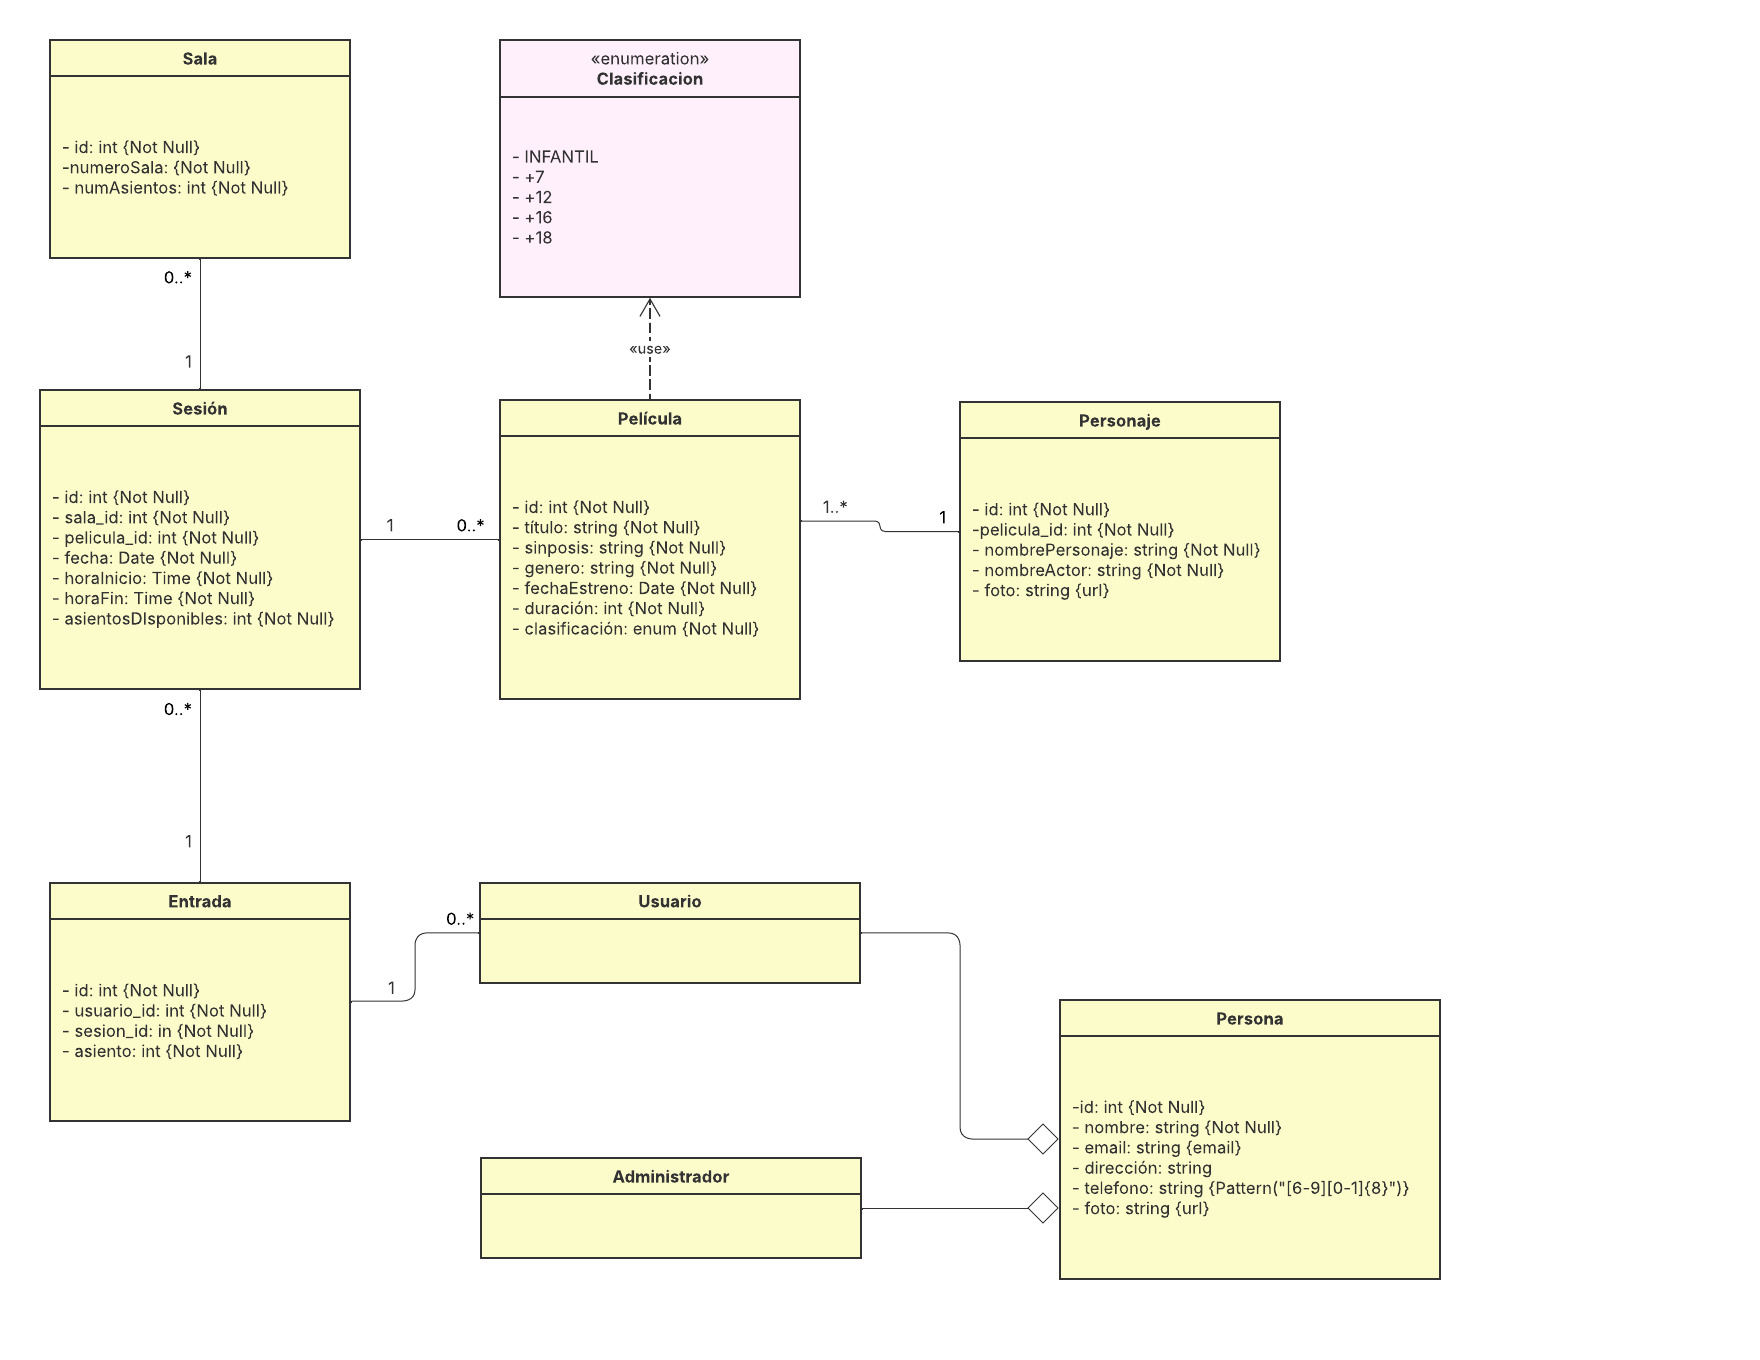
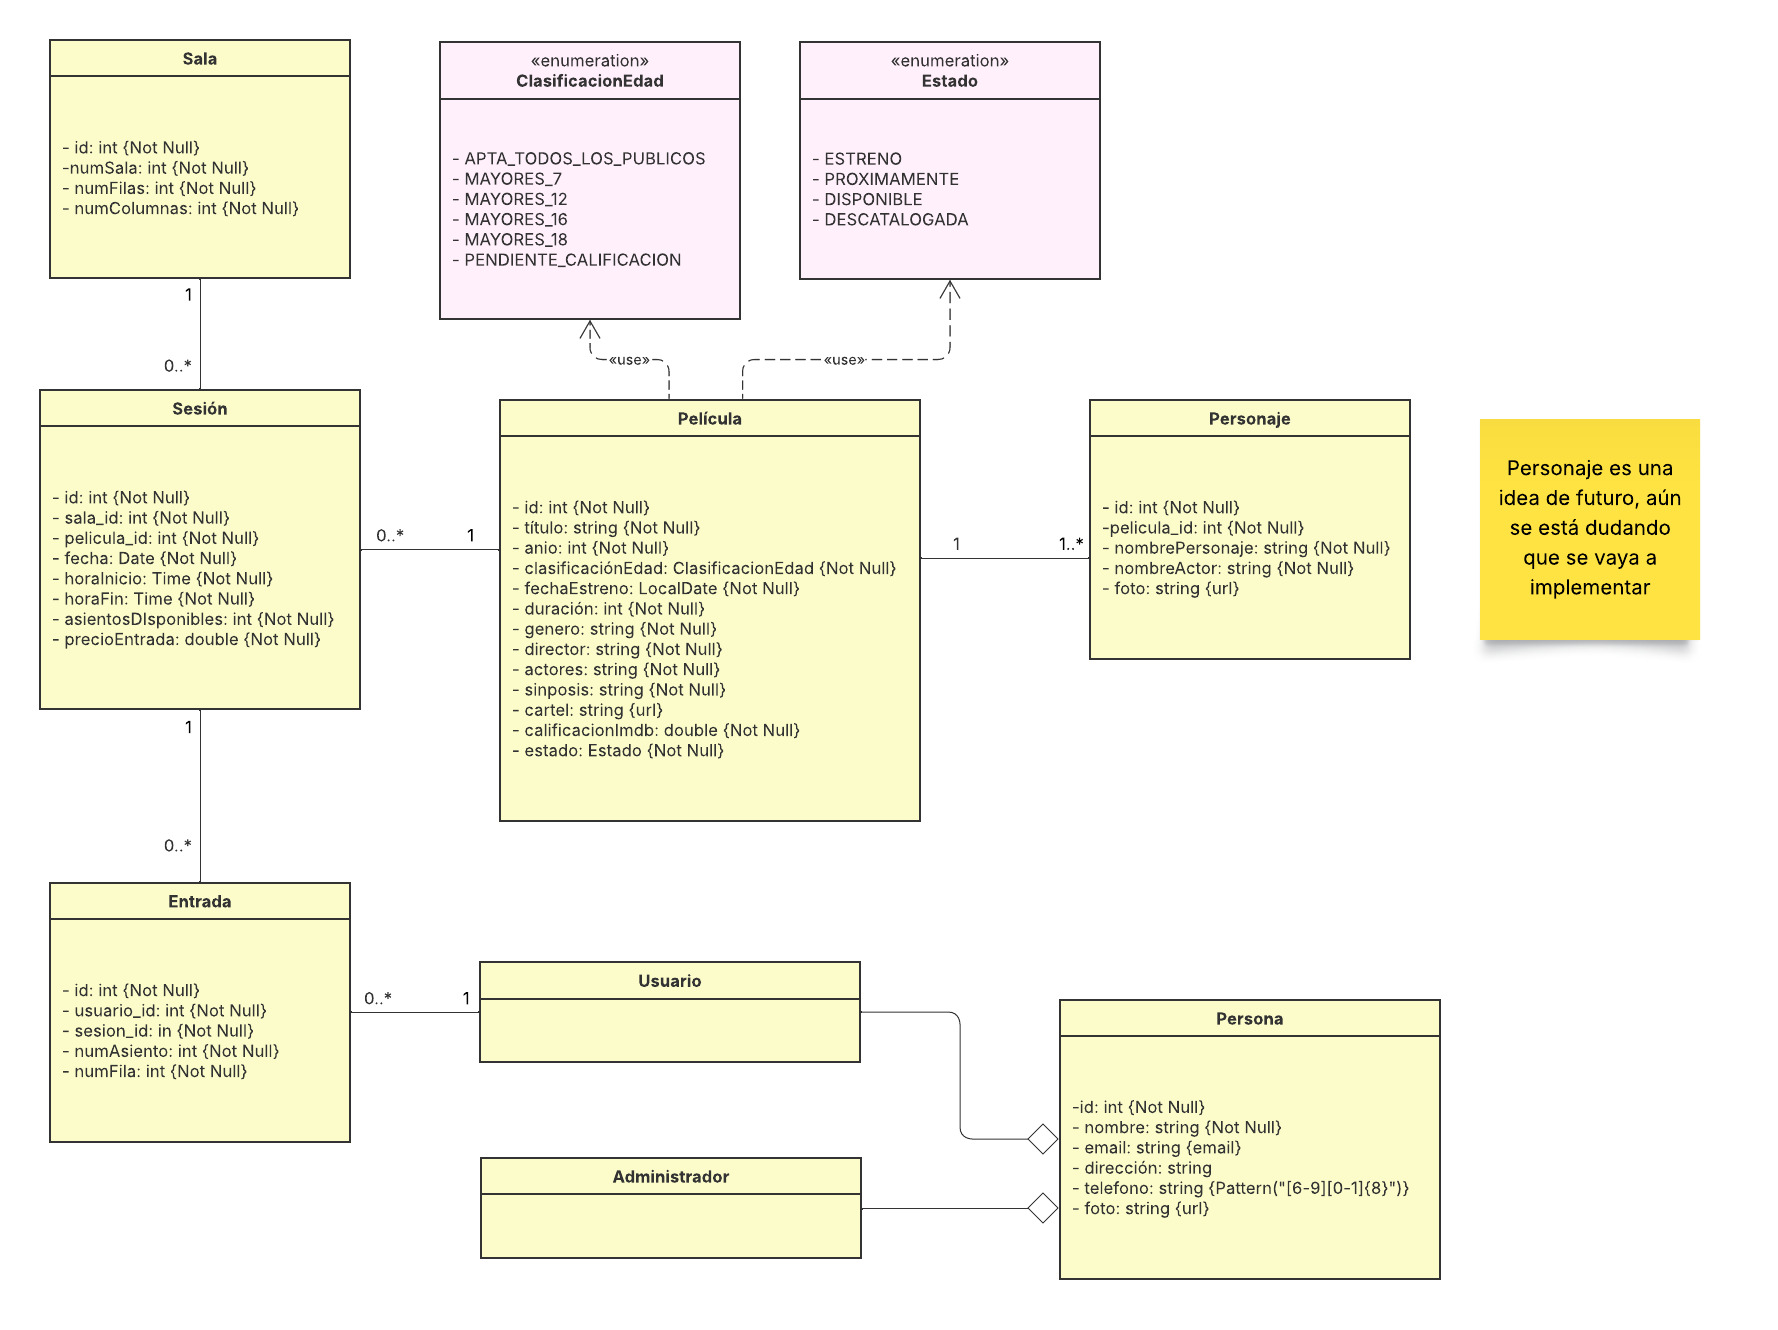
Docs: Rectificación del UML de la BD

diff --git a/Backend-SpringBoot/src/main/java/FrenzyFilms/entity/Pelicula.java b/Backend-SpringBoot/src/main/java/FrenzyFilms/entity/Pelicula.java
@@ -7,6 +7,8 @@ import jakarta.validation.constraints.NotBlank;
 
 import java.time.LocalDate;
 
+import org.hibernate.validator.constraints.URL;
+
 @Entity
 public class Pelicula extends DomainEntity {
 
@@ -41,10 +43,11 @@ public class Pelicula extends DomainEntity {
     private String sinopsis;
 
     @NotBlank
+    @URL
     private String cartel;
 
 	@Column(nullable = false)
-    private Double calificacionImdb;
+    private double calificacionImdb;
 
     // Atributos propios
     @NotBlank
